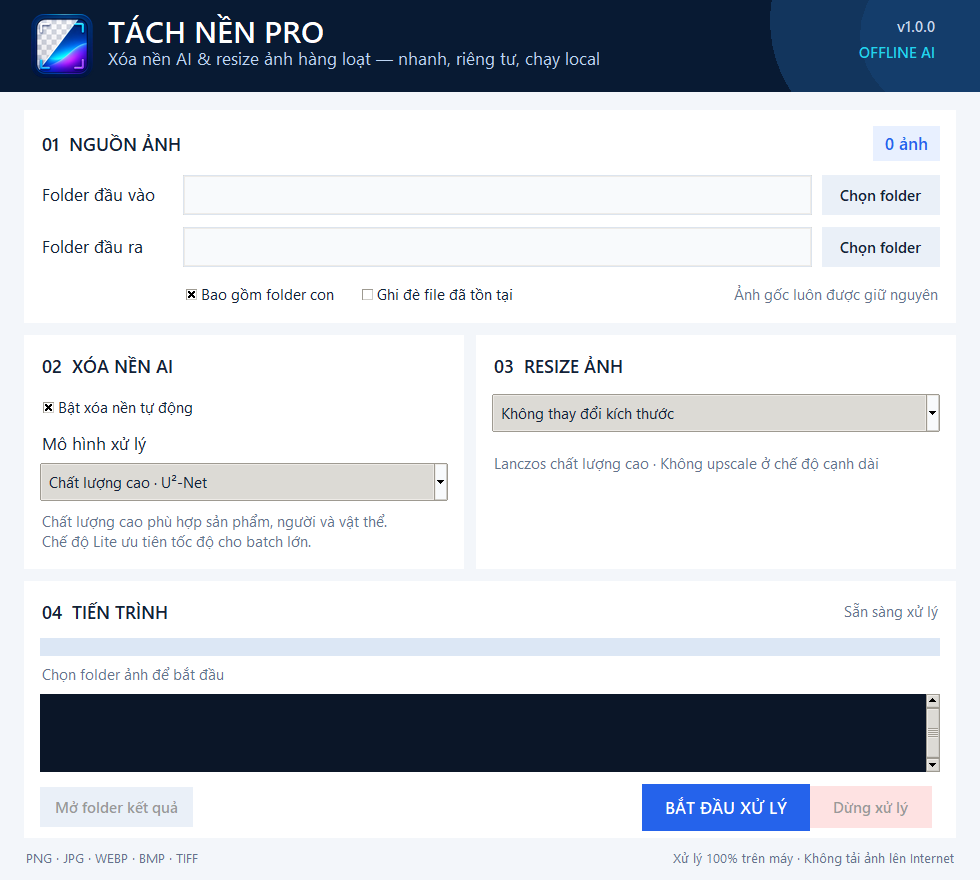
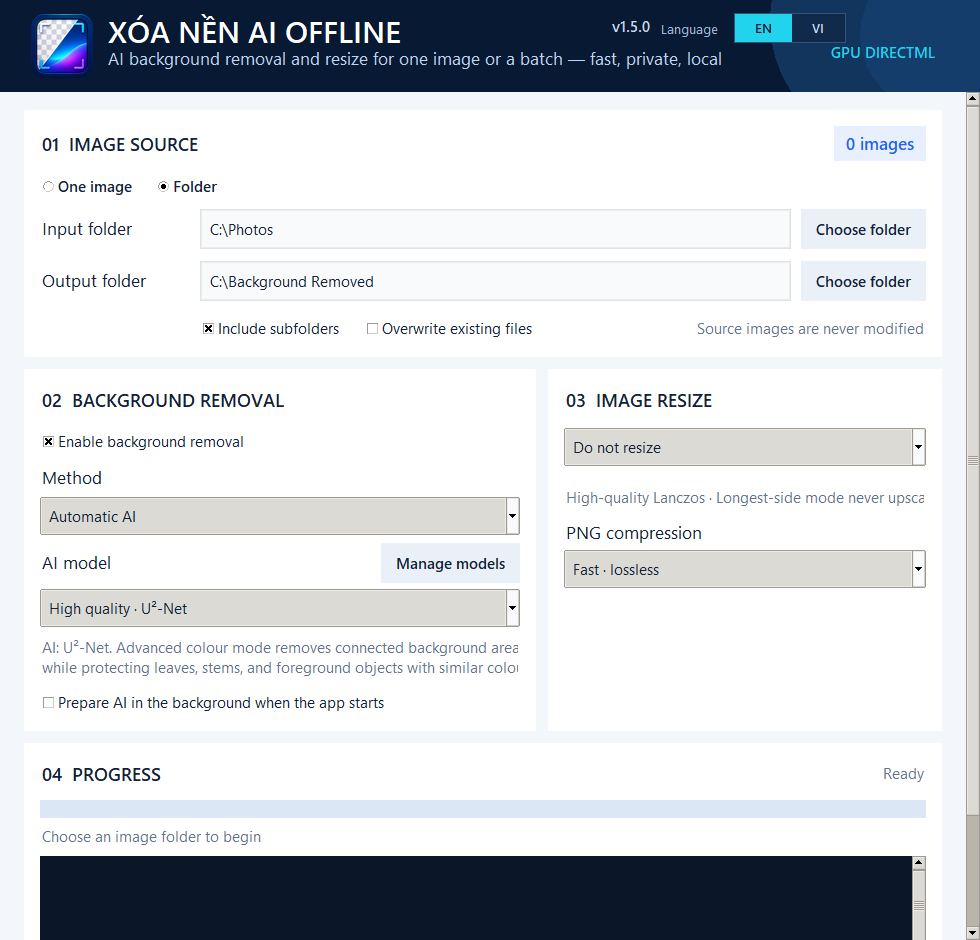
docs: refresh release and installation guide

diff --git a/README.vi.md b/README.vi.md
@@ -1,13 +1,18 @@
 # Xóa Nền AI Offline
 
+[![CI](https://github.com/Duongmike/Offline-Background-Remover/actions/workflows/ci.yml/badge.svg)](https://github.com/Duongmike/Offline-Background-Remover/actions/workflows/ci.yml)
+[![Bản phát hành mới nhất](https://img.shields.io/github/v/release/Duongmike/Offline-Background-Remover?display_name=tag)](https://github.com/Duongmike/Offline-Background-Remover/releases/latest)
+[![Lượt tải](https://img.shields.io/github/downloads/Duongmike/Offline-Background-Remover/total)](https://github.com/Duongmike/Offline-Background-Remover/releases)
+[![Giấy phép: MIT](https://img.shields.io/badge/License-MIT-yellow.svg)](LICENSE)
+
 [English](README.md) · **Tiếng Việt**
 
 Xóa Nền AI Offline là ứng dụng desktop Windows để xóa nền AI, tách nền theo
 màu nâng cao, xử lý hàng loạt và resize ảnh. Ảnh chỉ được xử lý trên máy của
 người dùng, không tải lên dịch vụ bên ngoài.
 
-> **Trạng thái:** dự án đang được phát triển tích cực. Giao diện hỗ trợ đầy đủ
-> English và Tiếng Việt, đồng thời lưu lựa chọn ngôn ngữ của người dùng.
+> **Bản hiện tại:** v1.5.0. Dự án đang được phát triển tích cực; toàn bộ workflow
+> hỗ trợ English và Tiếng Việt, đồng thời lưu lựa chọn ngôn ngữ của người dùng.
 
 ![Giao diện Offline Background Remover](ui_preview.png)
 
@@ -15,8 +20,9 @@ người dùng, không tải lên dịch vụ bên ngoài.
 
 - Xử lý một ảnh hoặc cả folder và giữ nguyên cấu trúc folder con.
 - Ba chiến lược xóa nền: AI tự động, theo màu nâng cao và Hybrid AI + màu.
+- Preview ảnh gốc/kết quả ở chế độ một ảnh trước khi mở file đã tạo.
 - Nhiều mẫu nền, overlay mask, cọ Giữ lại/Xóa thêm, Undo/Redo 20 lệnh.
-- Chuyển toàn bộ workflow desktop giữa English và Tiếng Việt mà không cần mở lại app.
+- Chuyển toàn bộ workflow bằng nút gọn `EN | VI` trên header mà không cần mở lại app.
 - Kiểm tra, tải và sửa model đã ghim SHA256 bằng Model Manager chạy nền.
 - Giao diện AI mặc định gọn; bộ điều khiển màu chỉ mở ở chế độ Theo màu/Hybrid
   và hiển thị ô màu trực quan cạnh mã hex của từng mẫu.
@@ -25,6 +31,34 @@ người dùng, không tải lên dịch vụ bên ngoài.
 - Bản phân phối Windows dùng DirectML → CPU fallback. Adapter CUDA/TensorRT chỉ
   được bật khi có runtime tương thích và benchmark phần cứng tái lập được.
 - Chạy hoàn toàn offline sau lần cài đặt model đầu tiên.
+
+## Tải và cài đặt trên Windows
+
+Tải bộ cài đã được kiểm tra tại **[GitHub Releases](https://github.com/Duongmike/Offline-Background-Remover/releases/latest)**:
+
+1. Tải `KhongBietGiDungNoi_Setup_1.5.0.exe` và `SHA256SUMS.txt`.
+2. Có thể xác minh bộ cài trước khi chạy:
+
+   ```powershell
+   (Get-FileHash .\KhongBietGiDungNoi_Setup_1.5.0.exe -Algorithm SHA256).Hash
+   Get-Content .\SHA256SUMS.txt
+   ```
+
+3. Chạy bộ cài; bản đóng gói không yêu cầu cài Python.
+
+Installer đã gồm model U²-Net được ghim phiên bản và DirectML runtime nên có thể
+xử lý ảnh offline ngay sau khi cài. Internet chỉ cần khi tải Release hoặc sửa model
+từ Model Manager. Ứng dụng không upload ảnh của người dùng.
+
+## Chọn chế độ xóa nền
+
+- **AI tự động:** lựa chọn đầu tiên cho người, sản phẩm hoặc ảnh có chủ thể chính rõ.
+- **Theo màu nâng cao:** phù hợp nền tương đối đồng nhất; có thể lấy nhiều mẫu nền
+  và chỉnh bảo vệ cạnh khi màu vật thể gần giống màu nền.
+- **Hybrid AI + màu:** kết hợp cấu trúc AI với các màu đã lấy mẫu cho ảnh studio
+  hoặc ảnh sản phẩm khó.
+- **Cọ Giữ lại/Xóa thêm:** sửa vùng mask nhỏ với Undo/Redo 20 bước khi kết quả tự
+  động chưa đủ sạch.
 
 ## Kiến trúc
 

diff --git a/README.md b/README.md
@@ -1,6 +1,8 @@
 # Xóa Nền AI Offline
 
 [![CI](https://github.com/Duongmike/Offline-Background-Remover/actions/workflows/ci.yml/badge.svg)](https://github.com/Duongmike/Offline-Background-Remover/actions/workflows/ci.yml)
+[![Latest release](https://img.shields.io/github/v/release/Duongmike/Offline-Background-Remover?display_name=tag)](https://github.com/Duongmike/Offline-Background-Remover/releases/latest)
+[![Downloads](https://img.shields.io/github/downloads/Duongmike/Offline-Background-Remover/total)](https://github.com/Duongmike/Offline-Background-Remover/releases)
 [![License: MIT](https://img.shields.io/badge/License-MIT-yellow.svg)](LICENSE)
 [![Python 3.10–3.11](https://img.shields.io/badge/Python-3.10%E2%80%933.11-blue.svg)](https://www.python.org/)
 
@@ -10,9 +12,9 @@ Xóa Nền AI Offline is a Windows desktop application for AI background removal
 advanced colour-keying, batch processing, and image resizing. Images stay on
 the local machine; the application does not upload them to a remote service.
 
-> **Project status:** actively developed. The application UI supports English
-> and Vietnamese with a persisted language selection. Public APIs and UI details
-> may change before the first stable release.
+> **Current release:** v1.5.0. The application is actively developed and its
+> complete workflow supports English and Vietnamese with a persisted language
+> selection.
 
 ![Offline Background Remover user interface](ui_preview.png)
 
@@ -20,10 +22,11 @@ the local machine; the application does not upload them to a remote service.
 
 - Process one image or a complete directory while preserving subdirectories.
 - Remove backgrounds with U²-Net, advanced colour-keying, or a hybrid strategy.
+- Preview single-image source/result pairs before opening the generated file.
 - Use multiple background samples, a mask overlay, and keep/remove brushes with
   20-step undo and redo.
-- Switch the complete desktop workflow between English and Vietnamese without
-  restarting the application.
+- Switch the complete desktop workflow from the compact `EN | VI` header control
+  without restarting the application.
 - Verify, download, and repair pinned AI models from the non-blocking Model Manager.
 - Keep the default AI layout compact; colour controls expand only for advanced
   colour-key and hybrid modes, with a visible swatch beside each sampled hex value.
@@ -33,6 +36,37 @@ the local machine; the application does not upload them to a remote service.
 - Ship with DirectML and CPU fallback on Windows. CUDA/TensorRT adapters remain
   gated behind compatible runtimes and reproducible hardware validation.
 - Run fully offline after the verified models have been installed.
+
+## Download for Windows
+
+Download the latest verified installer from **[GitHub Releases](https://github.com/Duongmike/Offline-Background-Remover/releases/latest)**:
+
+1. Download `KhongBietGiDungNoi_Setup_1.5.0.exe` and `SHA256SUMS.txt`.
+2. Optionally verify the installer before running it:
+
+   ```powershell
+   (Get-FileHash .\KhongBietGiDungNoi_Setup_1.5.0.exe -Algorithm SHA256).Hash
+   Get-Content .\SHA256SUMS.txt
+   ```
+
+3. Run the installer. Python is not required for the packaged application.
+
+The installer includes the pinned U²-Net models and DirectML runtime, so image
+processing works offline immediately after installation. Internet access is only
+needed when downloading a release or repairing a model from Model Manager. Images
+are never uploaded by the application.
+
+## Choosing a removal mode
+
+- **Automatic AI:** the best first choice for people, products, and a clear main
+  subject.
+- **Advanced colour key:** suited to reasonably uniform backgrounds; select
+  multiple background samples and tune edge protection when foreground colours
+  are similar.
+- **Hybrid AI + colour:** combines AI structure with sampled colours for difficult
+  studio or product images.
+- **Keep/Remove brushes:** correct compact mask areas with 20-step undo/redo when
+  automatic separation is not sufficient.
 
 ## Architecture
 
